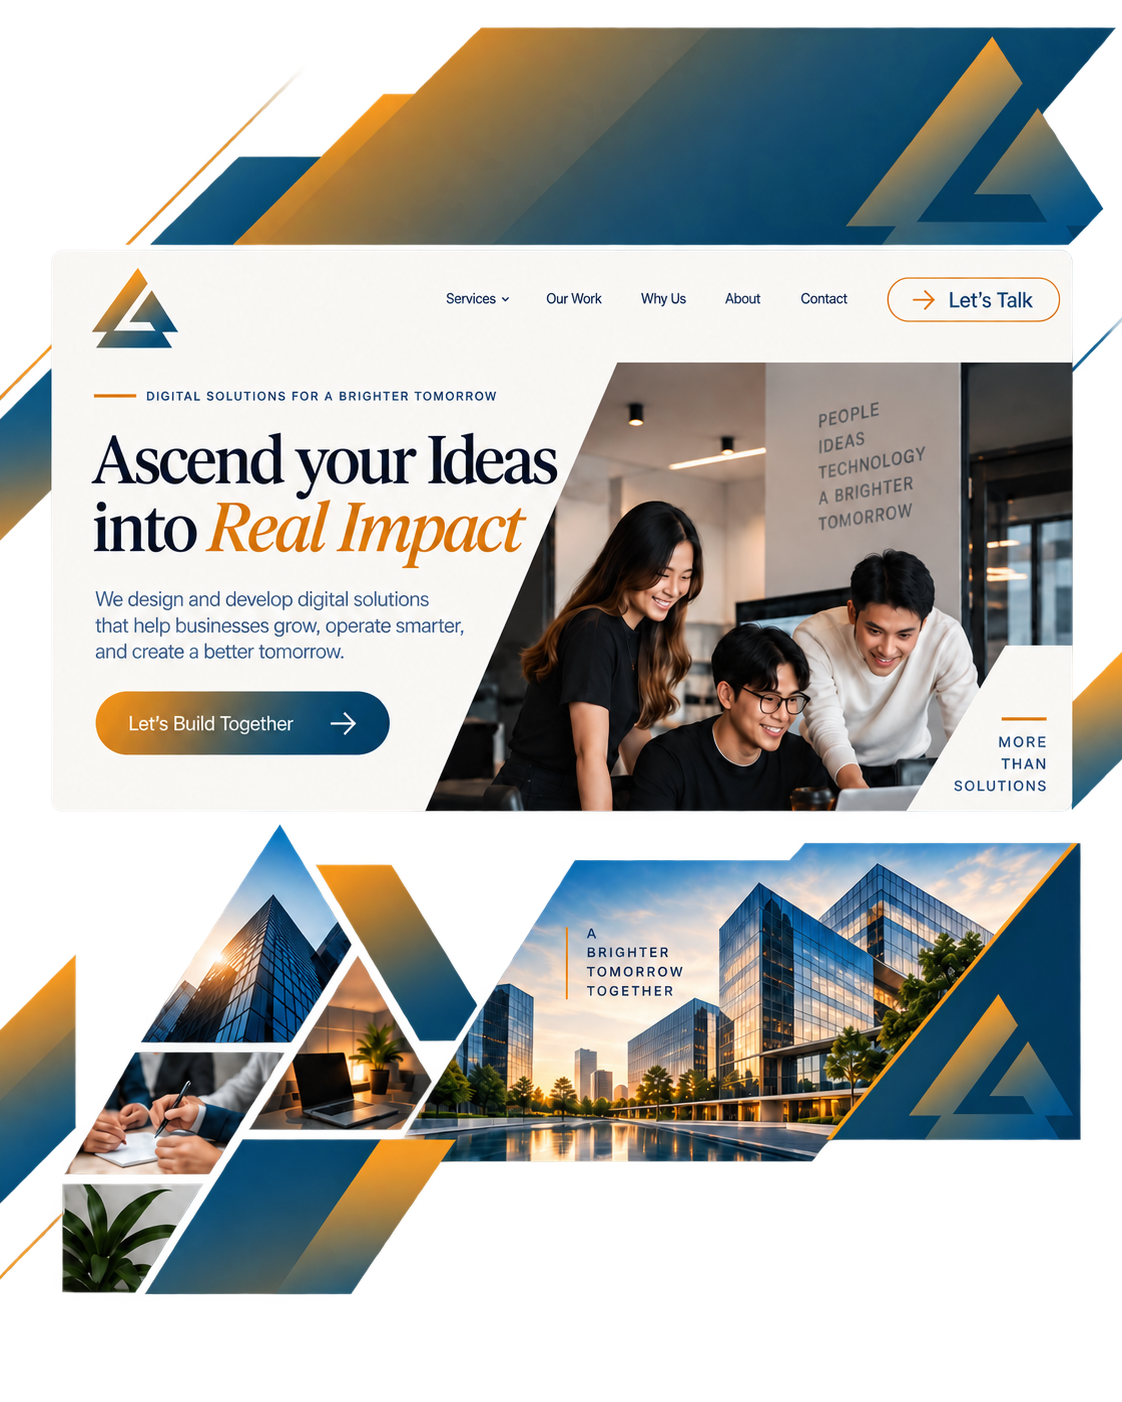
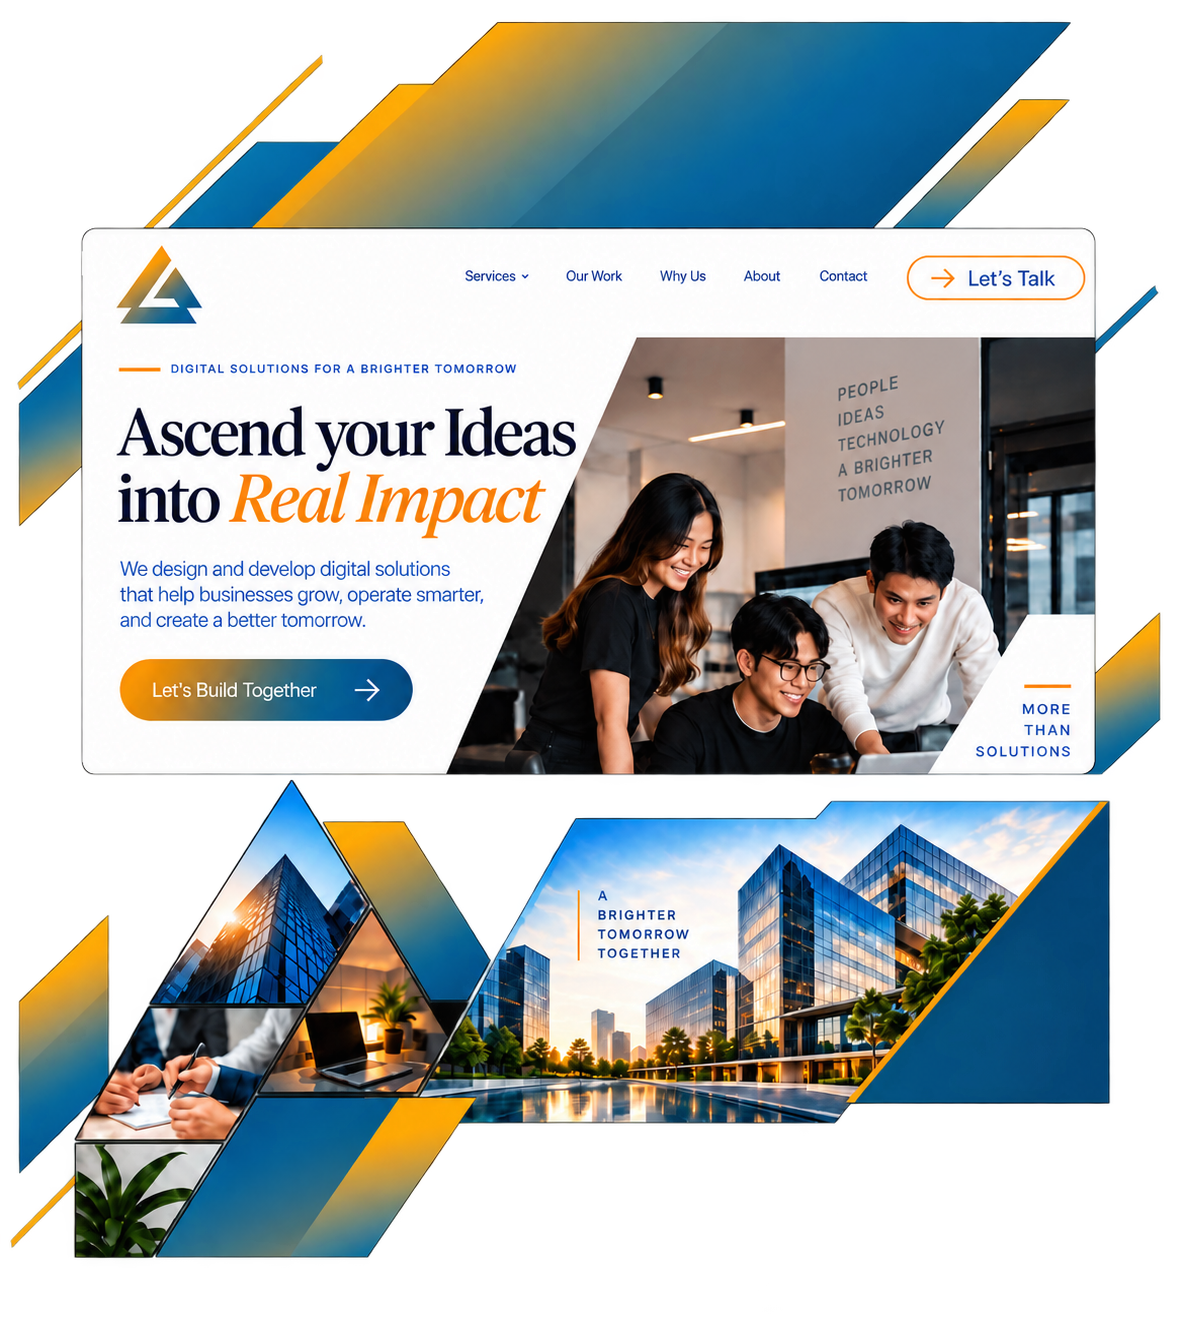
add new sevice in services section

diff --git a/src/components/Services.tsx b/src/components/Services.tsx
@@ -1,48 +1,56 @@
 import {
-  Braces,
-  ChartNoAxesCombined,
+  Lightbulb,
+  Megaphone,
+  Monitor,
   Palette,
-  PenTool,
   Search,
+  Share2,
 } from "lucide-react";
 import SectionHeading from "./SectionHeading";
 import TechSignalCard from "./TechSignalCard";
 
 const services = [
   {
-    icon: PenTool,
-    title: "Web Design",
+    icon: Lightbulb,
+    title: "Marketing Strategy & Consulting",
     description:
-      "Modern, responsive interfaces built around usability, visual hierarchy, accessibility, and your brand identity.",
-    tags: ["UI/UX", "Responsive", "Brand-first"],
+      "Free marketing plans, competitor research, campaign strategy, and audience targeting built around your business goals.",
+    tags: ["Free Plans", "Research", "Strategy"],
   },
   {
-    icon: Braces,
-    title: "Web Development",
+    icon: Monitor,
+    title: "Web Design & Development",
     description:
-      "Custom websites developed from the ground up for speed, flexibility, maintainability, and long-term scalability.",
-    tags: ["React", "Performance", "Scalable"],
+      "Business websites, landing pages, website redesigns, responsive development, and basic SEO setup for a strong online presence.",
+    tags: ["Websites", "Responsive", "Basic SEO"],
   },
   {
     icon: Palette,
     title: "Graphic Design",
     description:
-      "Strategic visuals that give your brand a distinctive and consistent identity across modern digital platforms.",
-    tags: ["Branding", "Creatives", "Identity"],
+      "Marketing materials including website graphics, social media creatives, ads, logos, business cards, flyers, brochures, posters, banners, and more.",
+    tags: ["Branding", "Creatives", "Print & Digital"],
   },
   {
-    icon: ChartNoAxesCombined,
-    title: "Social Media Marketing",
+    icon: Megaphone,
+    title: "Digital Advertisement",
     description:
-      "Creative content and campaign systems designed to strengthen your online presence and connect with the right audience.",
-    tags: ["Content", "Campaigns", "Growth"],
+      "Meta Ads and Google Ads campaign setup, audience targeting, optimization, and reporting designed to support measurable growth.",
+    tags: ["Meta Ads", "Google Ads", "Reporting"],
+  },
+  {
+    icon: Share2,
+    title: "Social Media Management",
+    description:
+      "Content planning, creation, posting, caption writing, scheduling, and reporting to keep your social presence consistent and active.",
+    tags: ["Content", "Scheduling", "Management"],
   },
   {
     icon: Search,
-    title: "SEO & PPC Marketing",
+    title: "Search Engine Optimization",
     description:
-      "Search and paid-media strategies focused on helping the right customers discover your business at the right moment.",
-    tags: ["SEO", "PPC", "Analytics"],
+      "On-page SEO, blog post creation, keyword optimization, local SEO, Google Business Profile support, and ongoing website improvement.",
+    tags: ["On-page SEO", "Local SEO", "Keywords"],
   },
 ];
 
@@ -55,7 +63,8 @@ export default function Services() {
       <div className="mx-auto max-w-7xl px-5 sm:px-8">
         <SectionHeading
           eyebrow="What we do"
-          title="Digital systems designed to work together."
+          title="Digital services designed to work together."
+          description="From strategy and websites to advertising, social media, design, and SEO, Ascend Logix brings the essential parts of your digital presence into one connected approach."
         />
 
         <div className="mt-14 grid gap-4 md:grid-cols-2 lg:grid-cols-3">
@@ -64,13 +73,6 @@ export default function Services() {
               key={service.title}
               {...service}
               index={index}
-              className={
-                index === 3
-                  ? "lg:col-span-2"
-                  : index === 4
-                    ? "md:col-span-2 lg:col-span-1"
-                    : ""
-              }
             />
           ))}
         </div>

diff --git a/src/components/Hero.tsx b/src/components/Hero.tsx
@@ -50,8 +50,17 @@ export default function Hero() {
               </a>
             </Button>
 
-            <Button asChild size="lg" variant="outline">
-              <a href="#services">Explore Services</a>
+            <Button
+              asChild
+              size="lg"
+              variant="outline"
+              className="border-0 bg-white/15 p-[1px] text-white shadow-none transition-[background,box-shadow] duration-500 hover:bg-[linear-gradient(100deg,#f2a33a_0%,#d98b2b_32%,#0d5978_72%,#1680a5_100%)] hover:shadow-[0_0_18px_rgba(217,139,43,.18),0_0_34px_rgba(13,89,120,.22)]"
+            >
+              <a href="#services">
+                <span className="flex h-full w-full items-center justify-center rounded-full bg-[#071923] px-7 transition-colors duration-500 hover:bg-[#071923]/96">
+                  Explore Services
+                </span>
+              </a>
             </Button>
           </div>
 
@@ -72,8 +81,8 @@ export default function Hero() {
           <div className="absolute -left-8 top-12 h-48 w-48 rounded-full bg-[#d98b2b]/16 blur-[80px]" />
           <div className="absolute -right-8 bottom-10 h-52 w-52 rounded-full bg-[#0d5978]/22 blur-[90px]" />
 
-          <div className="relative w-[92%] overflow-hidden rounded-[2rem] border border-white/10 bg-[#06141d] shadow-[0_35px_100px_rgba(0,0,0,.30)]">
-            <div className="pointer-events-none absolute inset-0 z-10 rounded-[2rem] ring-1 ring-inset ring-white/[0.04]" />
+          <div className="relative w-[92%] overflow-hidden rounded-[2rem]">
+            <div className="pointer-events-none absolute inset-0 z-10 rounded-[2rem]" />
 
             <img
               src={homeVisual}

diff --git a/src/components/ui/button.tsx b/src/components/ui/button.tsx
@@ -9,7 +9,7 @@ const buttonVariants = cva(
     variants: {
       variant: {
         default:
-          "bg-gradient-to-r from-[#e19a35] via-[#b17b3b] to-[#0d5978] text-white shadow-[0_12px_40px_rgba(217,139,43,0.22)] hover:-translate-y-0.5 hover:shadow-[0_16px_50px_rgba(13,89,120,0.25)]",
+          "bg-[linear-gradient(90deg,#e6a141_0%,#d98b2b_22%,#16779a_50%,#0d5978_62%,#d98b2b_82%,#e6a141_100%)] bg-[length:200%_100%] bg-left text-white shadow-[0_12px_40px_rgba(217,139,43,0.22)] transition-[background-position,transform,box-shadow] duration-700 ease-[cubic-bezier(.22,1,.36,1)] hover:-translate-y-0.5 hover:bg-right hover:shadow-[0_16px_50px_rgba(13,89,120,0.28)]",
         outline:
           "border border-white/15 bg-white/[0.04] text-white backdrop-blur-xl hover:border-white/30 hover:bg-white/[0.08]",
         ghost:

diff --git a/src/components/About.tsx b/src/components/About.tsx
@@ -49,9 +49,9 @@ export default function About() {
           <div>
             <p className="max-w-3xl text-2xl font-medium leading-[1.45] tracking-[-0.025em] text-[#1f292d] sm:text-3xl">
               At <span className="text-[#c47d23]">Ascend</span>{" "}
-              <span className="text-[#0d5978]">Logix</span>, we build digital
-              experiences from the ground up—because your business deserves more
-              than a one-size-fits-all solution.
+              <span className="text-[#0d5978]">Logix</span>, 
+                we build digital solutions that fit your business, 
+                your goals and your needs.
             </p>
 
             <p className="mt-7 max-w-3xl text-base leading-8 text-[#4d5a5f] sm:text-lg">

diff --git a/src/components/Showcase.tsx b/src/components/Showcase.tsx
@@ -187,16 +187,6 @@ export default function Showcase() {
           onMouseEnter={() => setHovering(true)}
           onMouseLeave={() => setHovering(false)}
         >
-          <div className="mb-3 flex items-center justify-between gap-3">
-            <p className="text-xs font-semibold uppercase tracking-[0.14em] text-white/35">
-              Use arrows to browse
-            </p>
-
-            <span className="text-[11px] text-white/24">
-              {activeIndex + 1} / {projects.length}
-            </span>
-          </div>
-
           <div
             className="relative h-[410px] overflow-hidden rounded-[1.6rem] sm:h-[450px] md:h-[500px] lg:h-[565px] xl:h-[615px]"
           >
